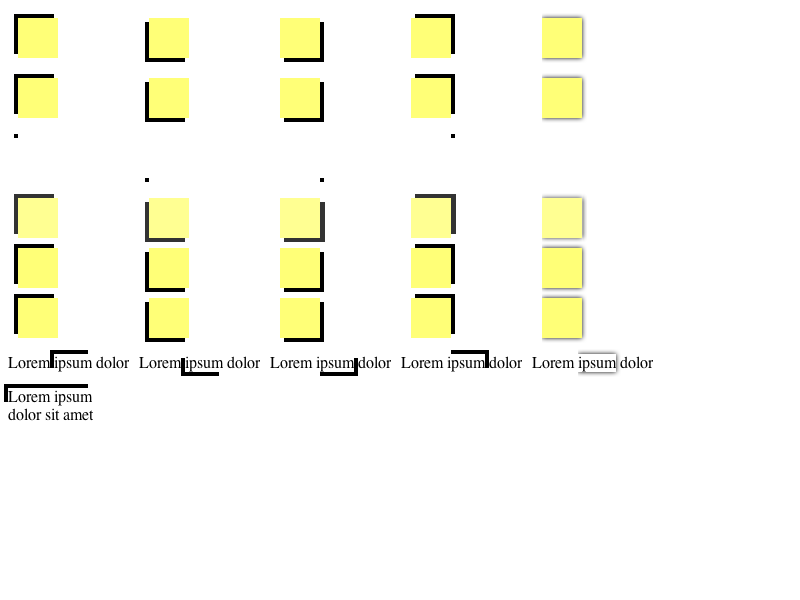
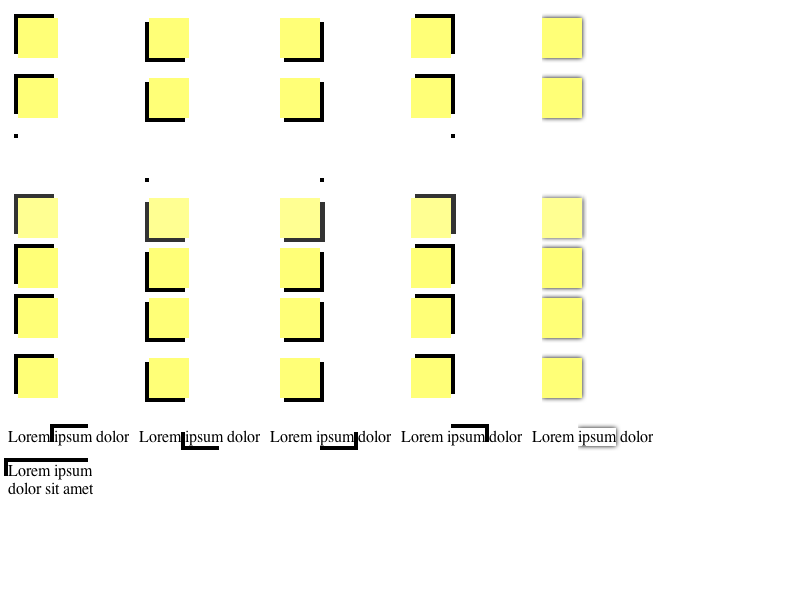
2007-07-13  Mitz Pettel  <mitz@webkit.org>
Reviewed by Dave Hyatt.

        - fix http://bugs.webkit.org/show_bug.cgi?id=13873
          Incomplete repaint of replaced element's box shadow

        Tests: fast/repaint/box-shadow-h.html
               fast/repaint/box-shadow-v.html

        * rendering/RenderHTMLCanvas.cpp:
        (WebCore::RenderHTMLCanvas::layout): Added a call to adjustOverflowForBoxShadow().
        * rendering/RenderImage.cpp:
        (WebCore::RenderImage::layout): Ditto.
        * rendering/RenderPartObject.cpp:
        (WebCore::RenderPartObject::layout): Ditto.
        * rendering/RenderReplaced.cpp:
        (WebCore::RenderReplaced::RenderReplaced): Initialize m_hasOverflow.
        (WebCore::RenderReplaced::~RenderReplaced): Added. Removes this object from the
        overflow rect map if it has overflow.
        (WebCore::RenderReplaced::shouldPaint): Account for overflow.
        (WebCore::RenderReplaced::adjustOverflowForBoxShadow): Added. Creates or
        removes an entry for this object in the global overflow rect map.
        (WebCore::RenderReplaced::overflowHeight): Added.
        (WebCore::RenderReplaced::overflowWidth): Added.
        (WebCore::RenderReplaced::overflowLeft): Added.
        (WebCore::RenderReplaced::overflowTop): Added.
        (WebCore::RenderReplaced::overflowRect): Added.
        * rendering/RenderReplaced.h:

2007-07-13  Mitz Pettel  <mitz@webkit.org>

        Reviewed by Dave Hyatt.
[…]

Changed region(s): [[0.0, 0.57, 0.8125, 0.84]]

diff --git a/fast/repaint/box-shadow-h.html b/fast/repaint/box-shadow-h.html
@@ -36,6 +36,8 @@
     
         <table class="square shadowTL"></table>
 
+        <canvas class="square shadowTL"></canvas>
+
         <p>
             Lorem <span class="shadowTL">ipsum</span> dolor
         </p>
@@ -63,6 +65,8 @@
     
         <table class="square shadowBL"></table>
 
+        <canvas class="square shadowBL"></canvas>
+
         <p>
             Lorem <span class="shadowBL">ipsum</span> dolor
         </p>
@@ -84,6 +88,8 @@
         <div class="square shadowBR" style="overflow: auto;"></div>
     
         <table class="square shadowBR"></table>
+
+        <canvas class="square shadowBR"></canvas>
 
         <p>
             Lorem <span class="shadowBR">ipsum</span> dolor
@@ -107,6 +113,8 @@
     
         <table class="square shadowTR"></table>
 
+        <canvas class="square shadowTR"></canvas>
+
         <p>
             Lorem <span class="shadowTR">ipsum</span> dolor
         </p>
@@ -128,6 +136,8 @@
         <div class="square shadowB" style="overflow: auto;"></div>
     
         <table class="square shadowB"></table>
+
+        <canvas class="square shadowB"></canvas>
 
         <p>
             Lorem <span class="shadowB">ipsum</span> dolor

diff --git a/fast/repaint/box-shadow-v.html b/fast/repaint/box-shadow-v.html
@@ -34,6 +34,8 @@
     
         <table class="square shadowTL"></table>
 
+        <canvas class="square shadowTL"></canvas>
+
         <p>
             Lorem <span class="shadowTL">ipsum</span> dolor
         </p>
@@ -61,6 +63,8 @@
     
         <table class="square shadowBL"></table>
 
+        <canvas class="square shadowBL"></canvas>
+
         <p>
             Lorem <span class="shadowBL">ipsum</span> dolor
         </p>
@@ -82,6 +86,8 @@
         <div class="square shadowBR" style="overflow: auto;"></div>
     
         <table class="square shadowBR"></table>
+
+        <canvas class="square shadowBR"></canvas>
 
         <p>
             Lorem <span class="shadowBR">ipsum</span> dolor
@@ -105,6 +111,8 @@
     
         <table class="square shadowTR"></table>
 
+        <canvas class="square shadowTR"></canvas>
+
         <p>
             Lorem <span class="shadowTR">ipsum</span> dolor
         </p>
@@ -126,6 +134,8 @@
         <div class="square shadowB" style="overflow: auto;"></div>
     
         <table class="square shadowB"></table>
+
+        <canvas class="square shadowB"></canvas>
 
         <p>
             Lorem <span class="shadowB">ipsum</span> dolor
